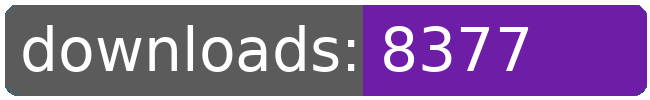
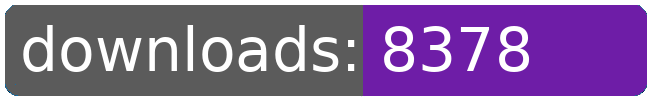
dl log written

Changed region(s): [[0.7692, 0.24, 0.8308, 0.72]]

diff --git a/README.md b/README.md
@@ -21,8 +21,8 @@
 		<td>8362</td>
 		<td>8368</td>
 		<td>8374</td>
-		<td>8377</td>
-		<td>+ 3</td>
+		<td>8378</td>
+		<td>+ 4</td>
 	</tr>
 	<tr>
 		<td>aberrant.kahet.outfitter</td>
@@ -274,8 +274,8 @@
 		<td></td>
 		<td></td>
 		<td></td>
-		<td>126941</td>
-		<td>26</td>
+		<td>126942</td>
+		<td>27</td>
 	</tr>
 </table>
 </sub></sup>
@@ -300,8 +300,8 @@
 		<td>8362</td>
 		<td>8368</td>
 		<td>8374</td>
-		<td>8377</td>
-		<td>+ 3</td>
+		<td>8378</td>
+		<td>+ 4</td>
 	</tr>
 	<tr>
 		<td>aberrant.kahet.outfitter</td>
@@ -553,8 +553,8 @@
 		<td></td>
 		<td></td>
 		<td></td>
-		<td>126941</td>
-		<td>26</td>
+		<td>126942</td>
+		<td>27</td>
 	</tr>
 </table>
 </sub></sup>
